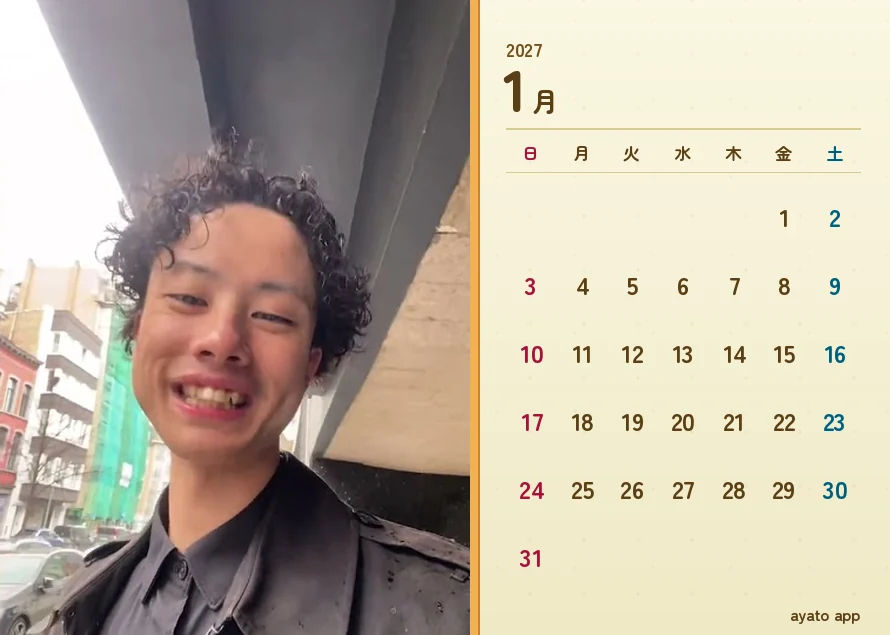
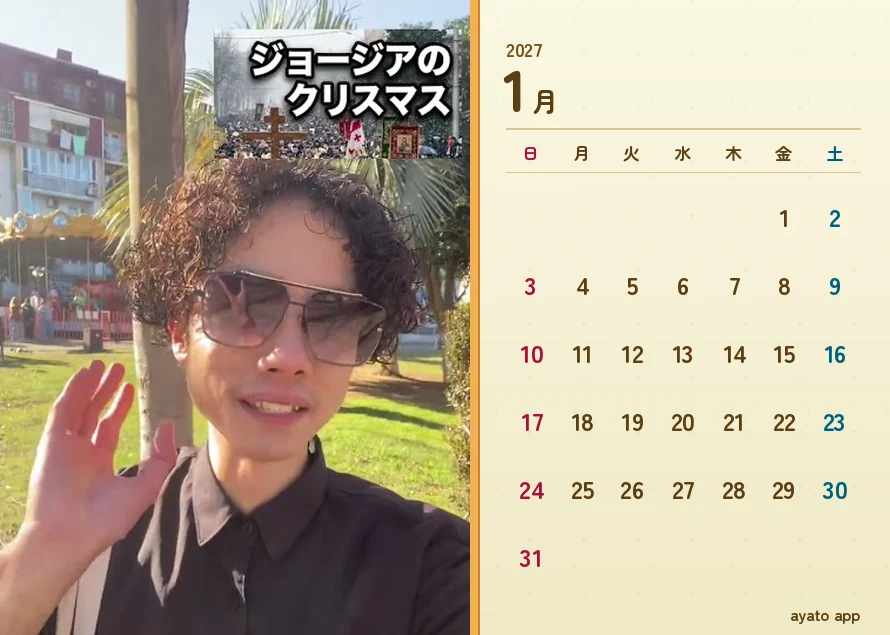
イラストとスクショを、紙に刷る絵として作り直す
**イラスト**は、サイトのスクリーンショットになっていた。看板のロゴと
「毎晩22時、世界のどこかから生放送」の帯はウェブの見出しであって、
紙に刷るものではない。12ヶ月ぜんぶの絵の上に同じ宣伝文が乗ることになる。
撮る前に消した。

あやとが 20px の点だったのも直した。引きの島ではどう撮っても点にしかならないので、
**島からはあやとごと取り除いて、`characters/ayato.webp` を大きく重ねる。**
同じ人が2人になる心配は、島の側から消したので起きない。
足もとには島と同じ色・同じ濃さの影を敷く（敷かないと地面から浮く）。

2枚が「同じ島の引きと寄り」で切り方しか違わなかったのも直した。
風景は別の街、スクショは別の配信なのに、ここだけ同じ絵では
12ヶ月ぶんの見当がつかない。いまは浜と海／建物の並びで、
場所は陸の外接矩形と建物の当たりから出す（座標を書かない）。

**スクショ**は顔の超アップで、しかも題の帯ごと落としていたので
ただの顔写真になっていた。落としてよいのは金額のところだけ。
題の帯は上、目標バーは下に出るので、**上から 540px を取れば
金額だけが消えて題が残る**。選び直した2本はどちらも題の帯つきで、
枠の中に金額が1円も写っていない。1月の面は1月の配信、7月の面は7月の配信。

Claude-Session: https://claude.ai/code/session_01LuEuARCBiX8w9R3CwPpCH6

diff --git a/tools/goods/calbake.py b/tools/goods/calbake.py
@@ -82,7 +82,7 @@ import subprocess
 import sys
 from pathlib import Path
 
-from PIL import Image, ImageDraw, ImageFont
+from PIL import Image, ImageDraw, ImageFilter, ImageFont
 
 HERE = Path(__file__).resolve().parent          # tools/goods/
 REPO = HERE.parent.parent
@@ -142,13 +142,17 @@ WEEK_INK = (SUN_INK, INK, INK, INK, INK, INK, SEA_INK)
 #: `box` は元の絵から切り取るところ（左・上・右・下）。`None` なら中央で
 #: 枠の縦横比に合わせて切る。**縦と横の縮尺が揃っていないと対照が落ちる。**
 SOURCES = {
+    # 島の背景は `calisle.mjs` が撮る（看板も帯も住人も、島のあやとも外してある）。
+    # 主役は `over` で**ここで**大きく立てる。
     ("illust", "01"): dict(
         file="illust-01.png", box=None, url=None,
-        note="本番のあやと島を引きで撮ったもの（住人は1人も写していない）",
+        over=dict(art="characters/ayato.webp", h=0.44, cx=0.62, feet=0.70),
+        note="あやと島の浜と海。桟橋へ下りる道にあやとが立つ",
     ),
     ("illust", "02"): dict(
         file="illust-02.png", box=None, url=None,
-        note="同じ島の寄り。降り立ったところ",
+        over=dict(art="characters/ayato.webp", h=0.54, cx=0.44, feet=0.88),
+        note="あやと島の建物の並び。広場にあやとが立つ",
     ),
     ("scene", "01"): dict(
         file="scene-01.jpg", box=None,
@@ -167,16 +171,23 @@ SOURCES = {
     # 配信のコマは 1280×720 の中に 9:16 のタテ配信が入っていて、左右は同じ絵の
     # ぼかし。**ぼかしの帯は切り落とす**（刷ると帯にしか見えない）。
     # タテの中身は 720×9/16 = 405px ぶんで、左端は (1280-405)/2 = 437.5。
+    #
+    # **縦は上から 540px を取る**（2026-10-10）。PRISM Live の題の帯は**上**に、
+    # 「なに食べよの広告費」の目標バーは**下**に出るので、下を落とすと
+    # **金額だけが消えて、題は残る**（`docs/island-money.md`。実額を面に出さない）。
+    # 1回目は帯ごと落として、ただの顔写真になっていた——あやとが見本に出したのは
+    # 帯も題も入ったスクショそのものなので、落とすのは金額のところだけにする。
     ("archive", "01"): dict(
-        file="archive-01.jpg", box=(438, 75, 843, 615),
-        url="https://i.ytimg.com/vi/V6lxgRozDJk/maxres3.jpg",
-        note="2025-03-22『前編【神回】ベルギーのワッフルはここから始まった！？"
-             "リエージュで本物の味に出会う旅』V6lxgRozDJk",
+        file="archive-01.jpg", box=(438, 0, 843, 540),
+        url="https://i.ytimg.com/vi/M1RvClI7mDg/maxres1.jpg",
+        note="2026-01-07『アリロ。ジョージア正教会のクリスマス！！』M1RvClI7mDg"
+             "（1月の配信。題の帯つき・金額は枠の外）",
     ),
     ("archive", "02"): dict(
-        file="archive-02.jpg", box=(438, 20, 843, 560),
-        url="https://i.ytimg.com/vi/QmUl3HrOOC4/maxres3.jpg",
-        note="2025-05-10『【神回】エジプト・シワの隠れ塩湖とサハラ砂漠の夕焼けが神すぎた』QmUl3HrOOC4",
+        file="archive-02.jpg", box=(438, 0, 843, 540),
+        url="https://i.ytimg.com/vi/SQXQOF1_Qhg/maxres2.jpg",
+        note="2026-07-23『ジョージアでイワシの塩焼き作ります！』SQXQOF1_Qhg"
+             "（7月の配信。題の帯つき・この枠に金額は無い）",
     ),
 }
 
@@ -338,6 +349,42 @@ def rules(page: Image.Image) -> None:
     d.line([(COL_X, 172), (PAGE_W - PAD, 172)], fill=RULE, width=1)
 
 
+#: 主役を立てるときに敷く、足もとの影。島の影と同じ色・同じ濃さ
+#: （`IsleStage.tsx` の `fill="#134a2c" opacity=0.22`）。
+#: **これが無いと、人が地面から浮く**（`docs/island-design.md` 2章の3）。
+SHADE = (0x13, 0x4a, 0x2c)
+SHADE_A = 56
+
+
+def stand(page: Image.Image, over: dict) -> None:
+    """左の欄に、主役を1人立てる。
+
+    **島のほうからは同じ人を取り除いてある**（`calisle.mjs`）ので、
+    2人に見えることはない。引きの島のあやとは 20px の点にしかならず、
+    カレンダーの絵の主役にはならない——だからここで大きく置く。
+
+    `h` は絵の高さ（枠の高さに対する割合）、`cx` は左右のまんなか、
+    `feet` は**足の裏**の高さ。頭は上から測らない——立つものは
+    足もとで位置が決まる（上で合わせると、背の違う絵で宙に浮く）。
+    """
+    art = Image.open(REPO / "site" / "public" / over["art"]).convert("RGBA")
+    h = round(PHOTO_H * over["h"])
+    w = round(art.width * h / art.height)
+    art = art.resize((w, h), Image.LANCZOS)
+    cx = round(PHOTO_W * over["cx"])
+    bottom = round(PHOTO_H * over["feet"])
+
+    shade = Image.new("RGBA", (PHOTO_W, PHOTO_H), (0, 0, 0, 0))
+    d = ImageDraw.Draw(shade)
+    rx, ry = w * 0.30, w * 0.085
+    d.ellipse([cx - rx, bottom - ry, cx + rx, bottom + ry], fill=SHADE + (SHADE_A,))
+    shade = shade.filter(ImageFilter.GaussianBlur(w * 0.03))
+    shade.alpha_composite(art, (cx - w // 2, bottom - h))
+
+    page.paste(Image.alpha_composite(
+        page.crop((0, 0, PHOTO_W, PHOTO_H)).convert("RGBA"), shade).convert("RGB"), (0, 0))
+
+
 def base(kind: str, no: str) -> Image.Image:
     """字を1文字も置いていない1枚。**濃さを測るとき、これが「地」になる。**"""
     page = Image.new("RGB", (PAGE_W, PAGE_H), PAPER_TOP)
@@ -345,6 +392,8 @@ def base(kind: str, no: str) -> Image.Image:
     im = Image.open(SRC / src["file"]).convert("RGB")
     box = photo_box(im, src["box"])
     page.paste(im.crop(box).resize((PHOTO_W, PHOTO_H), Image.LANCZOS), (0, 0))
+    if src.get("over"):
+        stand(page, src["over"])
     paper(page)
     seam(page)
     rules(page)
